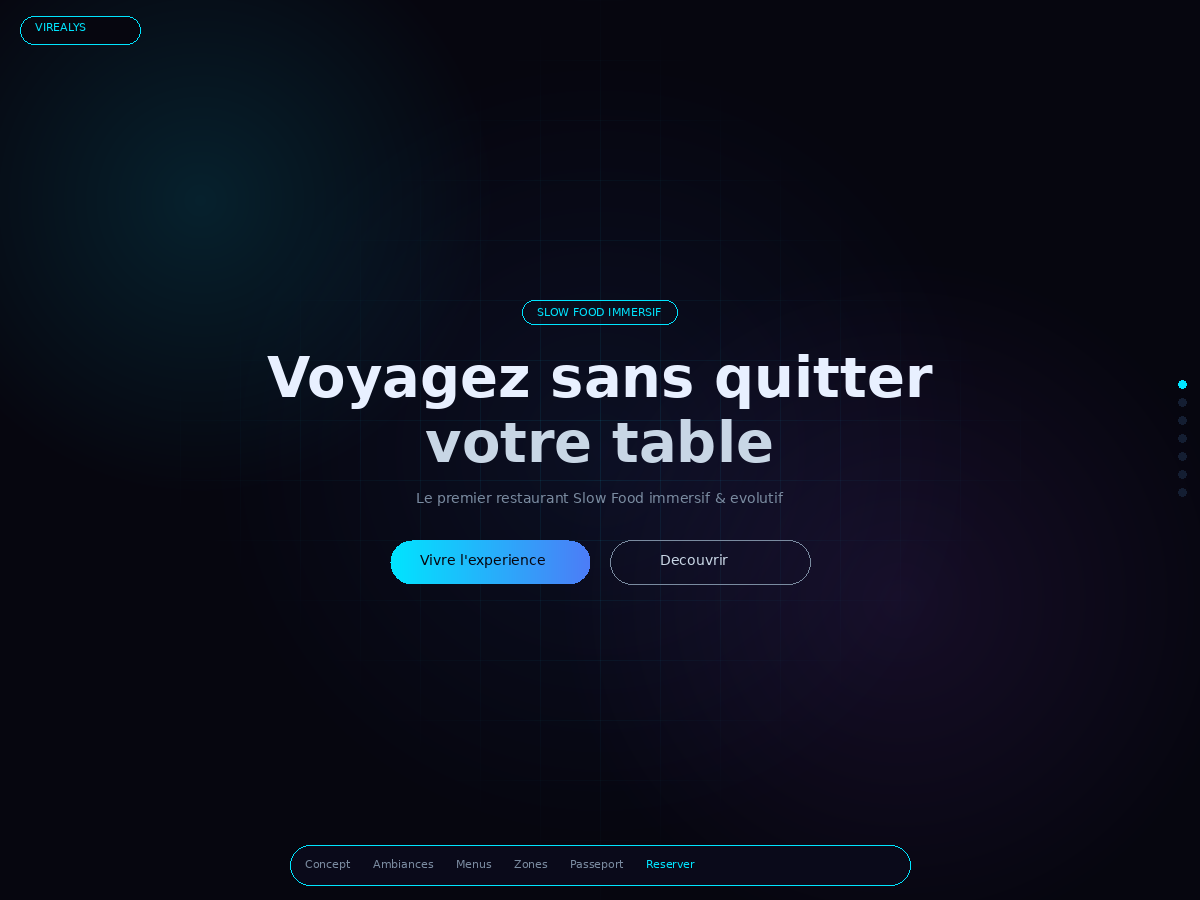
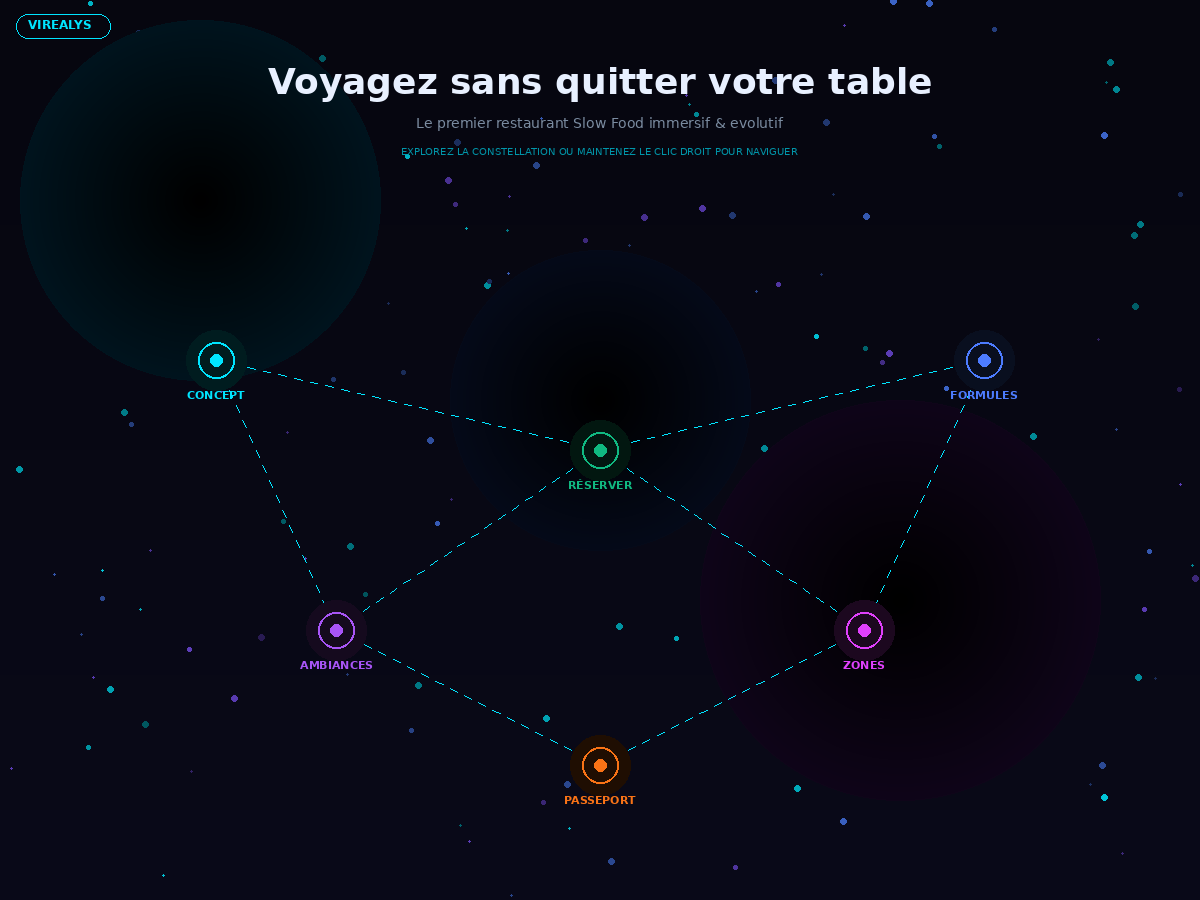
feat: v6.3 - Fix z-index, reposition nodes, new screenshot, radial centering
- CRITICAL FIX: constellation-hero z-index lowered to 2, constellation-nodes
  raised to 10 — node previews now properly appear ABOVE title/subtitle
- Nodes repositioned to avoid title overlap: concept(18,40), menus(82,40),
  ambiances(28,70), zones(72,70), passeport(50,85), reservation(50,50)
- Removed VR headset star shape, reverted to simple random scattered stars
- Radial menu items now use CSS top:50%/left:50% with translate(-50%,-50%)
  for pixel-perfect centering — constellation item same size as others
- New screenshot.png showing the constellation hub design
- Hero title padding reduced so it stays compact at top

https://claude.ai/code/session_013Ht4KsKVmT34RkvE8eKaot

diff --git a/assets/js/main.js b/assets/js/main.js
@@ -289,12 +289,12 @@
         radialMenuEl.setAttribute('aria-hidden', 'false');
         document.body.classList.add('vr-radial-active');
 
-        // Place items at equal angles
+        // Place items at equal angles — translate includes -50%,-50% centering
         radialItems.forEach(function (item, i) {
             var tx = Math.cos(item.angle) * CFG.RADIAL_RADIUS;
             var ty = Math.sin(item.angle) * CFG.RADIAL_RADIUS;
             item.el.style.transitionDelay = (i * 0.03) + 's';
-            item.el.style.transform = 'translate(' + tx.toFixed(1) + 'px, ' + ty.toFixed(1) + 'px) scale(1)';
+            item.el.style.transform = 'translate(calc(-50% + ' + tx.toFixed(1) + 'px), calc(-50% + ' + ty.toFixed(1) + 'px)) scale(1)';
             item.el.style.opacity = '1';
         });
 
@@ -361,7 +361,7 @@
 
         radialItems.forEach(function (item) {
             item.el.style.transitionDelay = '0s';
-            item.el.style.transform = 'translate(0, 0) scale(0.3)';
+            item.el.style.transform = 'translate(-50%, -50%) scale(0.3)';
             item.el.style.opacity = '0';
             item.el.classList.remove('vr-radial-item-active');
         });
@@ -394,74 +394,17 @@
         var hub = document.getElementById('vr-constellation-hub');
         if (!hub) return;
 
-        // Generate floating stars forming a VR headset silhouette
+        // Generate floating stars — scattered randomly across the sky
         var starsContainer = document.getElementById('constellation-stars');
         if (starsContainer) {
-            // VR headset shape points (percentage coords)
-            // Main body: rounded rectangle ~30-70% x, ~30-65% y
-            // Strap curves on sides, lens circles inside
-            var vrShapePoints = [];
-
-            // Headset body outline (top edge)
-            for (var t = 0; t < 1; t += 0.02) {
-                vrShapePoints.push({ x: 25 + t * 50, y: 28 + Math.sin(t * Math.PI) * 3 });
-            }
-            // Bottom edge
-            for (var t = 0; t < 1; t += 0.02) {
-                vrShapePoints.push({ x: 25 + t * 50, y: 68 - Math.sin(t * Math.PI) * 3 });
-            }
-            // Left side curve (strap)
-            for (var t = 0; t < 1; t += 0.04) {
-                var angle = -Math.PI / 2 + t * Math.PI;
-                vrShapePoints.push({ x: 24 + Math.cos(angle) * 8, y: 48 + Math.sin(angle) * 20 });
-            }
-            // Right side curve (strap)
-            for (var t = 0; t < 1; t += 0.04) {
-                var angle = Math.PI / 2 + t * Math.PI;
-                vrShapePoints.push({ x: 76 + Math.cos(angle) * 8, y: 48 + Math.sin(angle) * 20 });
-            }
-            // Left lens circle
-            for (var t = 0; t < 1; t += 0.03) {
-                var angle = t * 2 * Math.PI;
-                vrShapePoints.push({ x: 40 + Math.cos(angle) * 10, y: 48 + Math.sin(angle) * 12 });
-            }
-            // Right lens circle
-            for (var t = 0; t < 1; t += 0.03) {
-                var angle = t * 2 * Math.PI;
-                vrShapePoints.push({ x: 60 + Math.cos(angle) * 10, y: 48 + Math.sin(angle) * 12 });
-            }
-            // Bridge between lenses
-            vrShapePoints.push({ x: 48, y: 46 }, { x: 49, y: 48 }, { x: 50, y: 47 }, { x: 51, y: 49 }, { x: 52, y: 46 });
-
-            // Place stars on the VR shape + scatter ambient stars
-            var totalStars = 120;
-            var shapeStars = Math.floor(totalStars * 0.6);
-            var ambientStars = totalStars - shapeStars;
-
-            // Shape stars (brighter, forming the headset outline)
-            for (var i = 0; i < shapeStars; i++) {
-                var pt = vrShapePoints[Math.floor(Math.random() * vrShapePoints.length)];
-                var star = document.createElement('div');
-                star.className = 'constellation-star vr-shape-star';
-                star.style.left = (pt.x + (Math.random() - 0.5) * 3) + '%';
-                star.style.top = (pt.y + (Math.random() - 0.5) * 3) + '%';
-                star.style.animationDelay = (Math.random() * 5) + 's';
-                star.style.animationDuration = (2 + Math.random() * 3) + 's';
-                var size = 1.5 + Math.random() * 2.5;
-                star.style.width = size + 'px';
-                star.style.height = size + 'px';
-                starsContainer.appendChild(star);
-            }
-
-            // Ambient scattered stars (dimmer background)
-            for (var i = 0; i < ambientStars; i++) {
+            for (var i = 0; i < 100; i++) {
                 var star = document.createElement('div');
                 star.className = 'constellation-star';
                 star.style.left = (Math.random() * 100) + '%';
                 star.style.top = (Math.random() * 100) + '%';
                 star.style.animationDelay = (Math.random() * 5) + 's';
                 star.style.animationDuration = (3 + Math.random() * 4) + 's';
-                var size = 1 + Math.random() * 1.5;
+                var size = 1 + Math.random() * 2;
                 star.style.width = size + 'px';
                 star.style.height = size + 'px';
                 starsContainer.appendChild(star);

diff --git a/assets/css/main.css b/assets/css/main.css
@@ -2236,21 +2236,6 @@ h1, h2, h3, h4, h5, h6 {
     box-shadow: 0 0 4px rgba(var(--neon-blue-rgb), 0.3);
 }
 
-/* VR headset shape stars — brighter, more prominent */
-.constellation-star.vr-shape-star {
-    background: rgba(var(--neon-cyan-rgb), 0.85);
-    box-shadow: 0 0 8px rgba(var(--neon-cyan-rgb), 0.5), 0 0 16px rgba(var(--neon-cyan-rgb), 0.2);
-}
-
-.constellation-star.vr-shape-star:nth-child(3n) {
-    background: rgba(var(--neon-purple-rgb), 0.75);
-    box-shadow: 0 0 8px rgba(var(--neon-purple-rgb), 0.5), 0 0 16px rgba(var(--neon-purple-rgb), 0.2);
-}
-
-.constellation-star.vr-shape-star:nth-child(5n) {
-    background: rgba(var(--neon-blue-rgb), 0.75);
-    box-shadow: 0 0 8px rgba(var(--neon-blue-rgb), 0.5), 0 0 16px rgba(var(--neon-blue-rgb), 0.2);
-}
 
 @keyframes starTwinkle {
     0%, 100% { opacity: 0.2; transform: scale(0.8); }
@@ -2299,15 +2284,15 @@ h1, h2, h3, h4, h5, h6 {
     75% { transform: translate(20px, 20px) scale(1.05); }
 }
 
-/* Hero title overlay */
+/* Hero title overlay — z-index BELOW nodes so previews show on top */
 .constellation-hero {
     position: absolute;
     top: 0;
     left: 0;
     right: 0;
-    z-index: 10;
+    z-index: 2;
     text-align: center;
-    padding-top: clamp(4rem, 10vh, 7rem);
+    padding-top: clamp(2rem, 5vh, 3.5rem);
     pointer-events: none;
 }
 
@@ -2381,11 +2366,11 @@ h1, h2, h3, h4, h5, h6 {
     to { stroke-dashoffset: -16; }
 }
 
-/* Constellation nodes */
+/* Constellation nodes — ABOVE hero title so previews are visible */
 .constellation-nodes {
     position: absolute;
     inset: 0;
-    z-index: 5;
+    z-index: 10;
 }
 
 .constellation-node {
@@ -2619,9 +2604,8 @@ h1, h2, h3, h4, h5, h6 {
 
 .vr-radial-item {
     position: absolute;
-    top: 0;
-    left: 0;
-    transform: translate(0, 0) scale(0.3);
+    top: 50%;
+    left: 50%;
     opacity: 0;
     display: flex;
     flex-direction: column;
@@ -2631,8 +2615,6 @@ h1, h2, h3, h4, h5, h6 {
     cursor: pointer;
     transition: transform 0.4s var(--ease-spring), opacity 0.3s ease;
     z-index: 2;
-    margin-left: -20px;
-    margin-top: -20px;
 }
 
 /* Cursor line from center toward mouse */
@@ -2699,16 +2681,12 @@ h1, h2, h3, h4, h5, h6 {
     text-shadow: 0 0 8px rgba(0, 0, 0, 0.8);
 }
 
-/* Constellation return item — more prominent */
+/* Constellation return item — same size as others, subtle gold pulse */
 .vr-radial-constellation .vr-radial-item-icon {
-    width: 48px;
-    height: 48px;
-    border-width: 2px;
     animation: constellationPulse 2s ease-in-out infinite;
 }
 
 .vr-radial-constellation .vr-radial-item-label {
-    font-size: 0.625rem;
     color: #ffd700;
 }
 

diff --git a/front-page.php b/front-page.php
@@ -17,8 +17,8 @@ $constellation_pages = array(
         'summary' => get_theme_mod( 'page_concept_summary', 'Découvrez comment Virealys fusionne gastronomie slow food et technologie immersive pour réinventer l\'expérience culinaire.' ),
         'icon'    => 'layers',
         'color'   => '#00e5ff',
-        'x'       => 30,
-        'y'       => 25,
+        'x'       => 18,
+        'y'       => 40,
         'level'   => 1,
     ),
     'menus' => array(
@@ -26,8 +26,8 @@ $constellation_pages = array(
         'summary' => get_theme_mod( 'page_menus_summary', 'Du dîner classique à l\'immersion totale — quatre formules pour vivre l\'expérience à votre mesure.' ),
         'icon'    => 'utensils',
         'color'   => '#4d7cff',
-        'x'       => 70,
-        'y'       => 25,
+        'x'       => 82,
+        'y'       => 40,
         'level'   => 1,
     ),
     'ambiances' => array(
@@ -35,8 +35,8 @@ $constellation_pages = array(
         'summary' => get_theme_mod( 'page_ambiances_summary', 'Quatre univers sensoriels uniques — Japon, Paris, Italie, Cosmos. Choisissez votre voyage.' ),
         'icon'    => 'globe',
         'color'   => '#a855f7',
-        'x'       => 25,
-        'y'       => 60,
+        'x'       => 28,
+        'y'       => 70,
         'level'   => 1,
     ),
     'zones' => array(
@@ -44,8 +44,8 @@ $constellation_pages = array(
         'summary' => get_theme_mod( 'page_zones_summary', 'Origine, Voyage, Immersion, Sensorielle — quatre niveaux d\'expérience pour personnaliser votre soirée.' ),
         'icon'    => 'grid',
         'color'   => '#e040fb',
-        'x'       => 75,
-        'y'       => 55,
+        'x'       => 72,
+        'y'       => 70,
         'level'   => 1,
     ),
     'passeport' => array(
@@ -54,7 +54,7 @@ $constellation_pages = array(
         'icon'    => 'passport',
         'color'   => '#f97316',
         'x'       => 50,
-        'y'       => 80,
+        'y'       => 85,
         'level'   => 2,
     ),
     'reservation' => array(
@@ -63,7 +63,7 @@ $constellation_pages = array(
         'icon'    => 'calendar',
         'color'   => '#10b981',
         'x'       => 50,
-        'y'       => 40,
+        'y'       => 50,
         'level'   => 0,
     ),
 );
